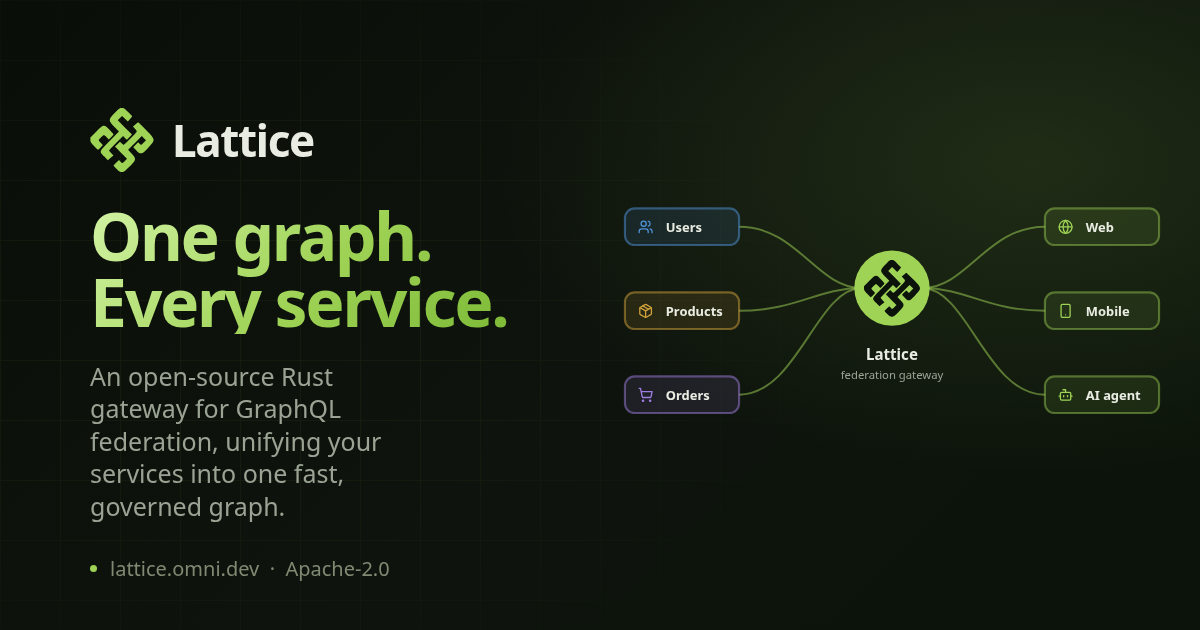
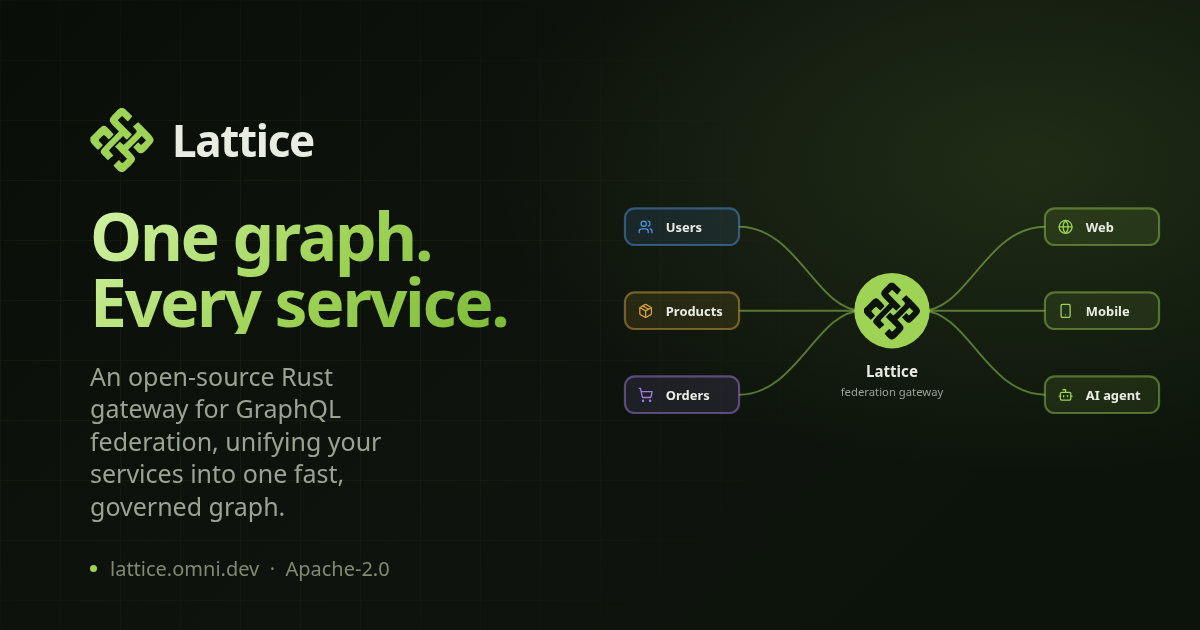
fix(site): center the lattice node so the diagram edges are symmetric
The core sat above the chip column's center, so the top edges were
shorter than the bottom ones. Move the node to the column center (y=121)
so every edge mirrors top-to-bottom, and update the OG to match.

diff --git a/src/components/landing/HeroSection.tsx b/src/components/landing/HeroSection.tsx
@@ -31,12 +31,12 @@ const strokeIcon = {
 
 // services -> lattice (converge at 232,100), then lattice -> clients (from 288,100).
 const EDGES = [
-  "M118,43 C172,43 190,100 232,100",
-  "M118,121 C172,121 190,100 232,100",
-  "M118,199 C172,199 190,100 232,100",
-  "M288,100 C330,100 348,43 402,43",
-  "M288,100 C330,100 348,121 402,121",
-  "M288,100 C330,100 348,199 402,199",
+  "M118,43 C172,43 190,121 232,121",
+  "M118,121 C172,121 190,121 232,121",
+  "M118,199 C172,199 190,121 232,121",
+  "M288,121 C330,121 348,43 402,43",
+  "M288,121 C330,121 348,121 402,121",
+  "M288,121 C330,121 348,199 402,199",
 ];
 
 type IconName = "users" | "package" | "cart" | "globe" | "smartphone" | "bot";
@@ -189,9 +189,9 @@ const GraphDiagram = () => (
     ))}
 
     {/* lattice core: a solid node with the mark knocked out, label beneath */}
-    <circle cx="260" cy="100" r="35" fill="var(--primary)" />
+    <circle cx="260" cy="121" r="35" fill="var(--primary)" />
     <g
-      transform="translate(234 74) scale(0.405)"
+      transform="translate(234 95) scale(0.405)"
       fill="var(--primary-foreground)"
     >
       <g transform="translate(-23,150) scale(0.1,-0.1)">
@@ -202,7 +202,7 @@ const GraphDiagram = () => (
     </g>
     <text
       x="260"
-      y="164"
+      y="180"
       textAnchor="middle"
       style={{ fill: "var(--foreground)", fontSize: 14, fontWeight: 700 }}
     >
@@ -210,7 +210,7 @@ const GraphDiagram = () => (
     </text>
     <text
       x="260"
-      y="181"
+      y="197"
       textAnchor="middle"
       style={{ fill: "var(--muted-foreground)", fontSize: 10.5 }}
     >
